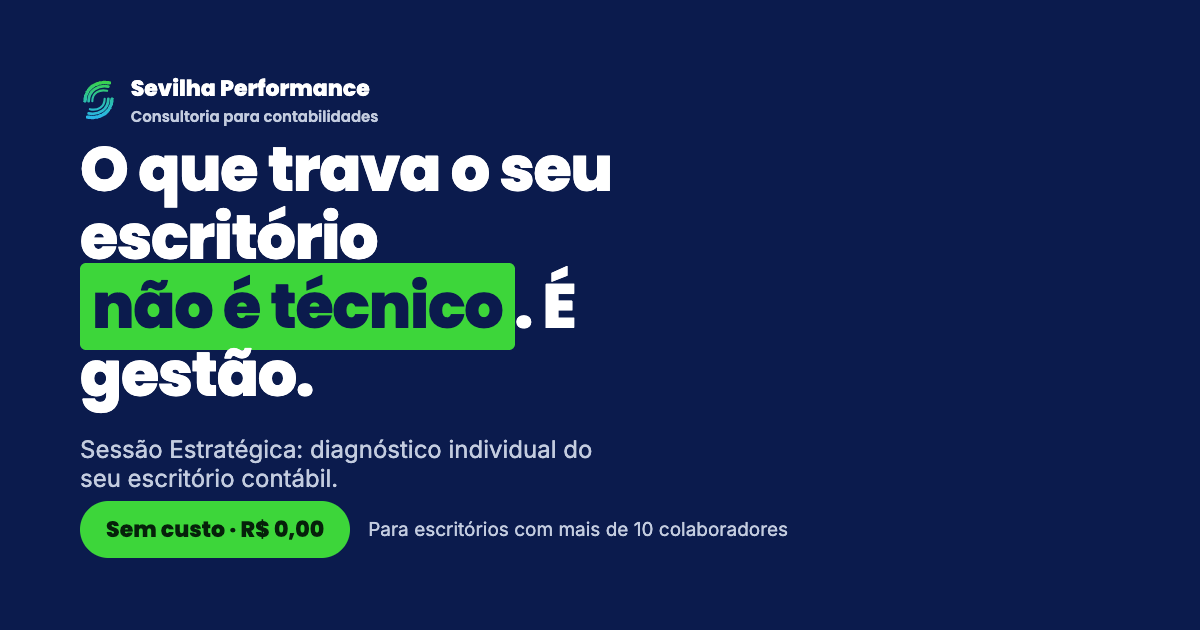
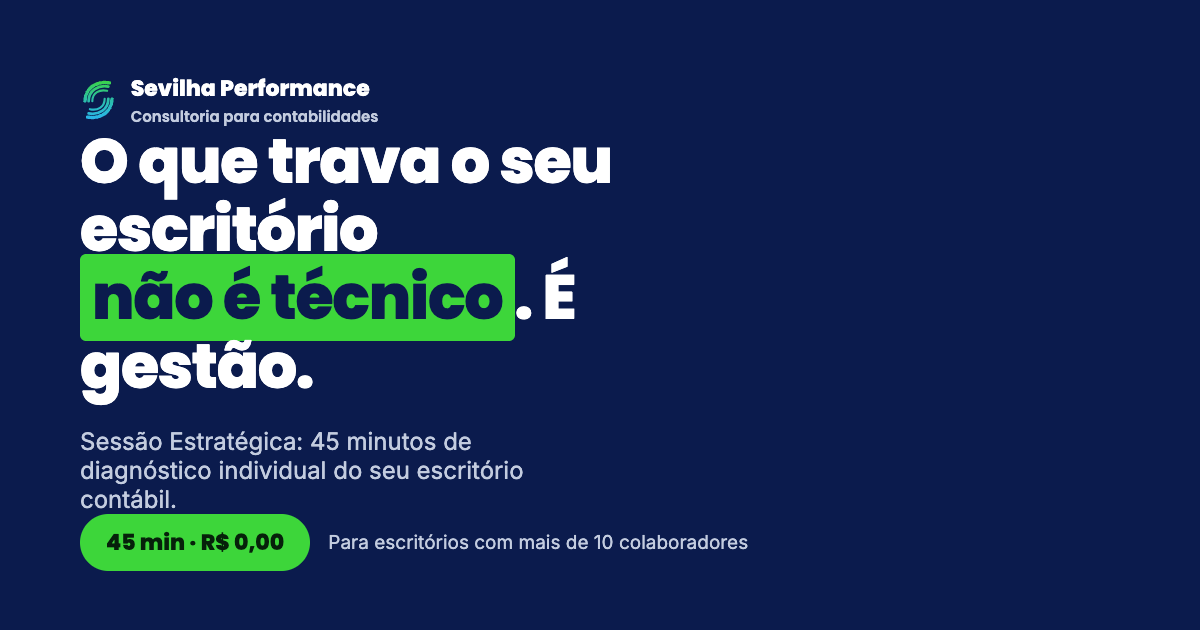
aa

Changed region(s): [[0.0617, 0.2111, 0.5242, 0.6635], [0.0617, 0.6937, 0.6475, 0.9048]]

diff --git a/mentoria/index.html b/mentoria/index.html
@@ -10,7 +10,7 @@
 
   <meta property="og:type"        content="website" />
   <meta property="og:title"       content="Sessão Estratégica — diagnóstico gratuito do seu escritório contábil" />
-  <meta property="og:description" content="Para escritórios com mais de 10 colaboradores: um diagnóstico individual do que travou o crescimento e do que precisa mudar. Sem custo e sem compromisso." />
+  <meta property="og:description" content="Para escritórios com mais de 10 colaboradores: 45 minutos de diagnóstico individual do que travou o crescimento e do que precisa mudar. Sem custo e sem compromisso." />
   <meta property="og:image"       content="https://sevilha-perfomance.vercel.app/assets/og-mentoria.png" />
   <meta property="og:url"         content="https://sevilha-perfomance.vercel.app/mentoria" />
   <meta property="og:locale"      content="pt_BR" />
@@ -393,7 +393,7 @@
       </p>
 
       <ul class="hero-list">
-        <li><span class="tick">✓</span><span>Conversa individual com um consultor da Sevilha Performance</span></li>
+        <li><span class="tick">✓</span><span><b>45 minutos</b> de conversa individual com um consultor da Sevilha Performance</span></li>
         <li><span class="tick">✓</span><span>Leitura da sua estrutura, processos, margem e time</span></li>
         <li><span class="tick">✓</span><span>Saída com prioridades claras — <b>mesmo que você não contrate nada</b></span></li>
         <li><span class="tick">✓</span><span>Conduzida por quem já acompanhou +450 contabilidades</span></li>
@@ -409,11 +409,11 @@
       <ol>
         <li>Você preenche o formulário com os dados do escritório.</li>
         <li>Nosso time entra em contato pelo WhatsApp para agendar a melhor data.</li>
-        <li>Você conversa com um consultor e recebe o diagnóstico do seu escritório.</li>
+        <li>Você conversa com um consultor por 45 minutos e recebe o diagnóstico do seu escritório.</li>
       </ol>
       <div class="price-row">
         <strong>R$ 0,00</strong>
-        <span>Sessão Estratégica sem custo e sem compromisso</span>
+        <span>45 minutos, sem custo e sem compromisso</span>
       </div>
     </div>
   </div>
@@ -497,7 +497,7 @@
 
     <div class="stats">
       <div class="stat"><strong>+450</strong><span>Contabilidades acompanhadas</span></div>
-      <div class="stat"><strong>35+</strong><span>Anos de mercado contábil</span></div>
+      <div class="stat"><strong>20+</strong><span>Anos de mercado contábil</span></div>
       <div class="stat"><strong>10+</strong><span>Colaboradores: o perfil que atendemos</span></div>
     </div>
   </div>
@@ -596,7 +596,7 @@
       </div>
       <div class="faq-item">
         <button class="faq-q" type="button" aria-expanded="false" onclick="toggleFaq(this)">A sessão é presencial ou online? <span>+</span></button>
-        <div class="faq-a">Online e ao vivo, com um consultor da Sevilha Performance.</div>
+        <div class="faq-a">Online e ao vivo, com um consultor da Sevilha Performance. São 45 minutos — o suficiente para ler o escritório e sair com prioridades definidas.</div>
       </div>
     </div>
   </div>
@@ -607,7 +607,7 @@
   <div class="container narrow">
     <h2>Descubra o que trava o seu escritório</h2>
     <p>
-      Um diagnóstico individual, sem custo, com quem acompanha contabilidades há mais de duas décadas.
+      Um diagnóstico individual, sem custo, com quem acompanha contabilidades há mais de 20 anos.
       Você decide o que fazer com ele.
     </p>
     <a href="#agendar" class="btn open-modal">Agendar diagnóstico gratuito →</a>
@@ -642,6 +642,7 @@
        <div class="modal-body">
         <div class="trust">
           <span><b>R$ 0,00</b></span>
+          <span>45 minutos</span>
           <span>Sem compromisso</span>
           <span>🔒 Dados usados só para o agendamento (LGPD)</span>
         </div>
